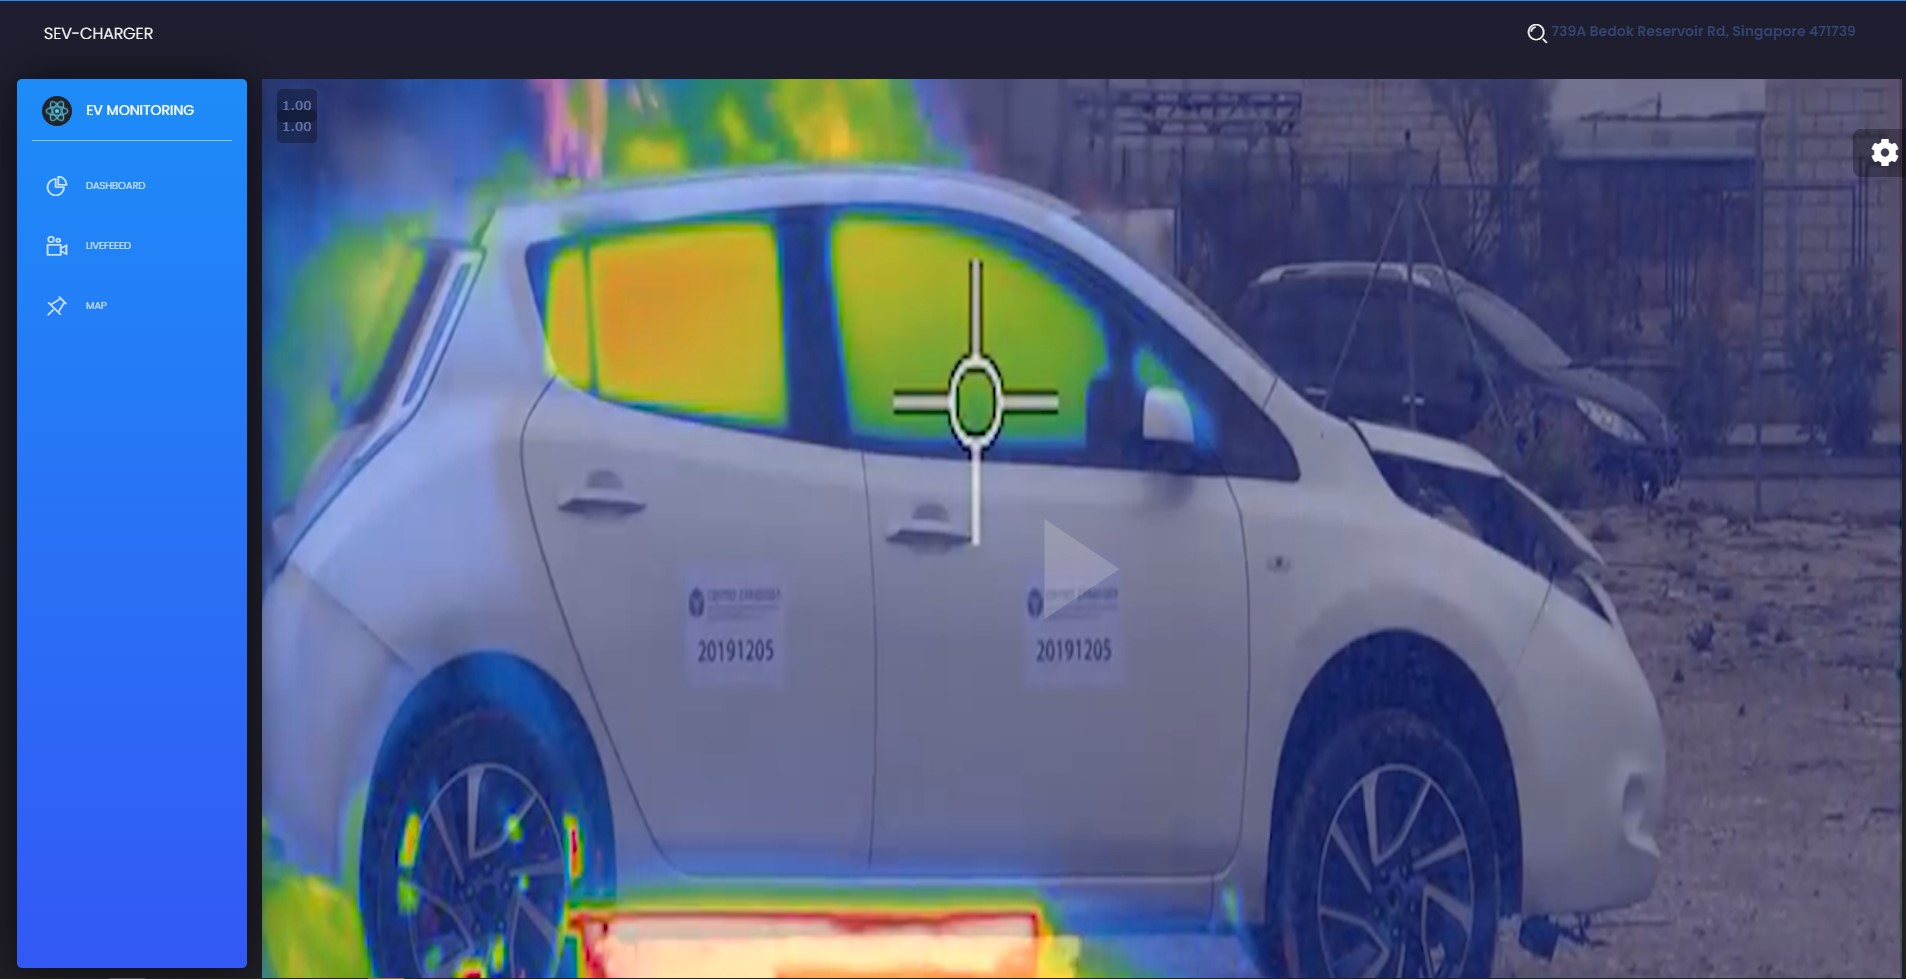
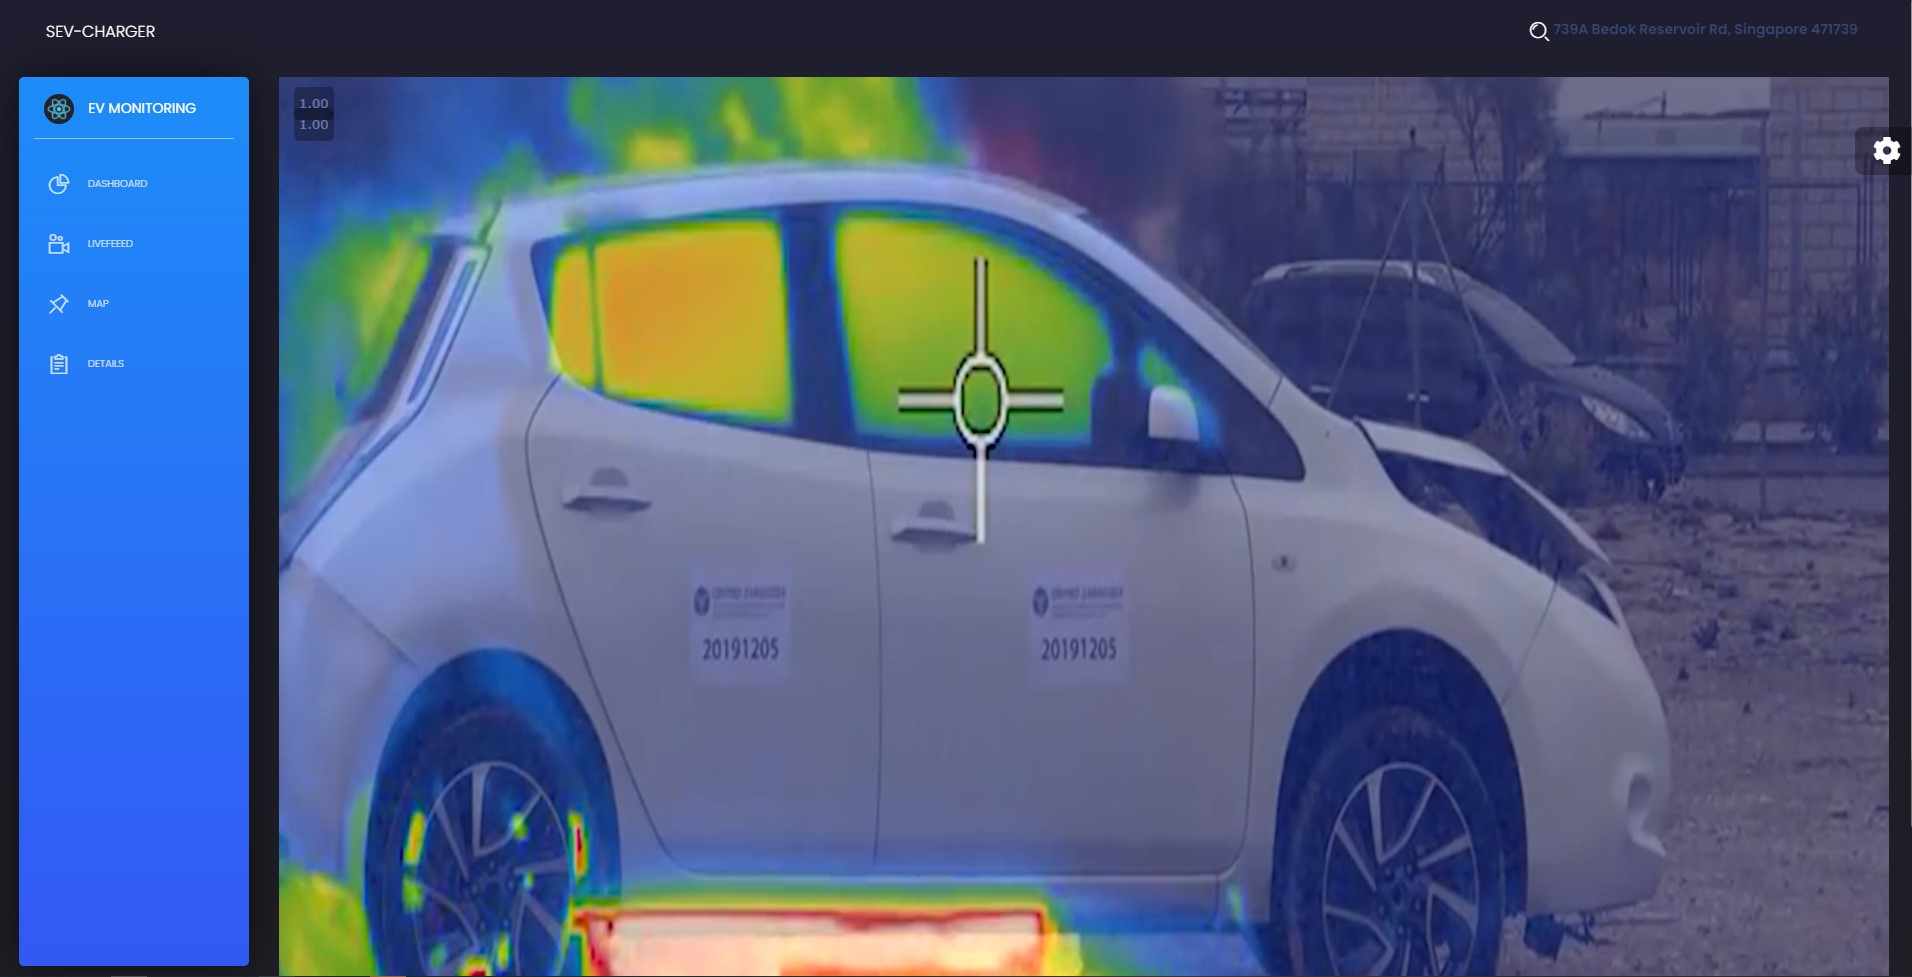
fix: updated readme with details tab

diff --git a/README.md b/README.md
@@ -7,11 +7,11 @@ The current web application has been hosted in IBM cloud Foundry: https://sev-ch
 
 ## What does this repository contain?
 
-Web Application that live streams the gas (CH4 levels) and temperature sensors value, the warning level, the video feed for IR and RBG as well as the location.
+Web Application that live streams the gas (CH4 levels) and temperature sensors value, the warning level, the video feed for IR and RBG as well as the location. To assist the first respondent, the details of the vehicle can be found on the application - ranging from battery placement, vehicle model and voltage source.
 
 ## How to use?
 
-Pull over the entire repository, make a copy of the .env file and populate it with the Google API key. 
+Pull over the entire repository, make a copy of the .env file and populate it with the Google API key. Please activate Google Javascript Map API beforehand.
 
 Subsequently, install all the packages and run start
 
@@ -56,8 +56,12 @@ The overall architecture is broken down into three different segments: Onsite, I
 
 ## Livefeed
 
-![image-architecture](image/livefeed.jpg)
+![image-livefeed](image/livefeed.jpg)
 
 ## Map
 
-![image-architecture](image/map.jpg)
+![image-map](image/map.jpg)
+
+## Details
+
+![image-details](image/details.jpg)
